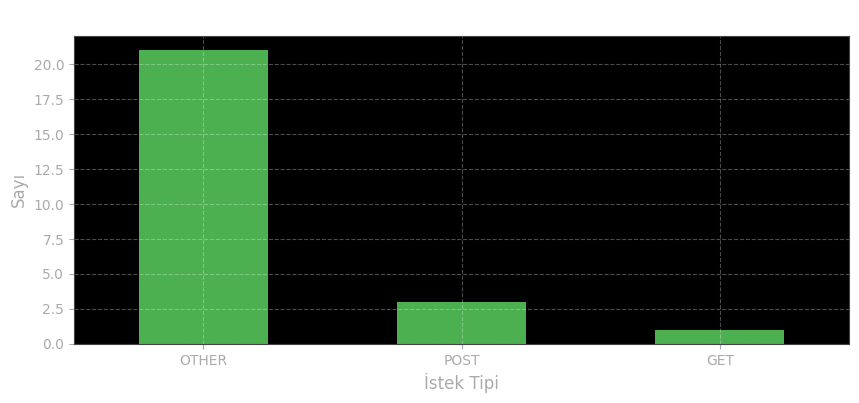
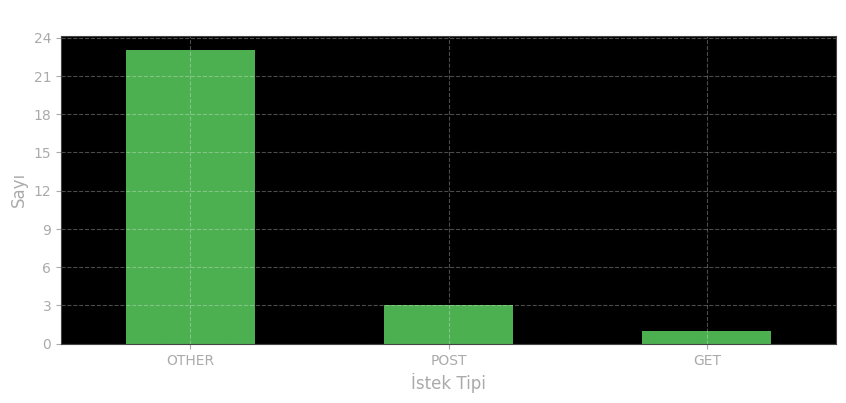
Güncelleme 27.05 04:41

diff --git a/templates/index.html b/templates/index.html
@@ -2,8 +2,9 @@
 <html lang="tr">
 <head>
     <meta charset="UTF-8">
-    <title>Honeypot Saldırı Grafikleri</title>
+    <title>Honeynet Dashboard</title>
     <link href="https://cdn.jsdelivr.net/npm/bulma@0.9.4/css/bulma.min.css" rel="stylesheet">
+    <link rel="stylesheet" href="https://cdnjs.cloudflare.com/ajax/libs/font-awesome/6.5.0/css/all.min.css">
     <style>
         body {
             background-color: #1e1e1e;
@@ -26,9 +27,14 @@
 </head>
 <body>
     <div class="container">
-        <h1 class="title has-text-white" style="text-align: center;">Honeypot Saldırı Grafikleri</h1>
-        <form action="{{ url_for('refresh') }}" method="get">
-            <button type="submit" style="margin-bottom: 20px;">🔄Yenile</button>
+        <h1 class="title is-2 has-text-white has-text-centered" style="text-shadow: 2px 2px 6px rgba(0,0,0,0.7); font-weight: 700;">Honeypot Saldırı Grafikleri</h1>
+        <form action="{{ url_for('refresh') }}" method="get" style="display: flex; justify-content: center; margin-bottom: 20px;">
+            <button class="button is-small is-dark is-rounded " type="submit">
+                <span class="icon">   
+                    <i class="fas fa-sync-alt"></i>
+                </span>
+                <span>Yenile</span>
+            </button>
         </form>
 
         <form method="get" action="/">

diff --git a/app.py b/app.py
@@ -1,4 +1,5 @@
 from flask import Flask, render_template, request
+from matplotlib.ticker import MaxNLocator
 import matplotlib.pyplot as plt
 import pandas as pd
 from datetime import datetime
@@ -7,6 +8,7 @@ import re
 import csv
 from collections import defaultdict
 from flask import redirect, url_for
+from datetime import timedelta
 
 
 app = Flask(__name__)
@@ -177,7 +179,7 @@ def get_statistics(data):
     return stats
 
 # Veri yükleme fonksiyonu
-def load_data(log_type):
+def load_data(log_type, days=7):
     filename = {
         "http": "http_logs.csv",
         "html": "html_logs.csv",
@@ -186,7 +188,12 @@ def load_data(log_type):
 
     df = pd.read_csv(filename)
     df["timestamp"] = pd.to_datetime(df["timestamp"], errors='coerce')
-    return df.dropna(subset=["timestamp"])
+    df = df.dropna(subset=["timestamp"])
+
+    cutoff_date = pd.Timestamp.now() - pd.Timedelta(days=days)
+    df = df[df["timestamp"] >= cutoff_date]
+
+    return df
 
 # Zaman ve IP tabanlı grafik çizme fonksiyonu
 def plot_graphs(df, graph_type):
@@ -225,6 +232,7 @@ def plot_graphs(df, graph_type):
     ax1.set_xlabel("Zaman", fontsize=12, color='#AAAAAA')
     ax1.set_ylabel("İstek Sayısı", fontsize=12, color='#AAAAAA')
     ax1.tick_params(colors='#AAAAAA')
+    ax1.yaxis.set_major_locator(MaxNLocator(integer=True))
     ax1.spines['bottom'].set_color('#444444')
     ax1.spines['top'].set_color('#444444')
     ax1.spines['right'].set_color('#444444')
@@ -242,6 +250,7 @@ def plot_graphs(df, graph_type):
         ax2.set_xlabel("IP Adresi", fontsize=12, color='#AAAAAA')
         ax2.set_ylabel("İstek Sayısı", fontsize=12, color='#AAAAAA')
         ax2.tick_params(colors='#AAAAAA', rotation=45)
+        ax2.yaxis.set_major_locator(MaxNLocator(integer=True))
         ax2.spines['bottom'].set_color('#444444')
         ax2.spines['top'].set_color('#444444')
         ax2.spines['right'].set_color('#444444')
@@ -268,6 +277,7 @@ def plot_graphs(df, graph_type):
         
         ax3.set_ylabel("Sayı", fontsize=12, color='#AAAAAA')
         ax3.tick_params(colors='#AAAAAA', rotation=0)
+        ax3.yaxis.set_major_locator(MaxNLocator(integer=True))
         ax3.spines['bottom'].set_color('#444444')
         ax3.spines['top'].set_color('#444444')
         ax3.spines['right'].set_color('#444444')
